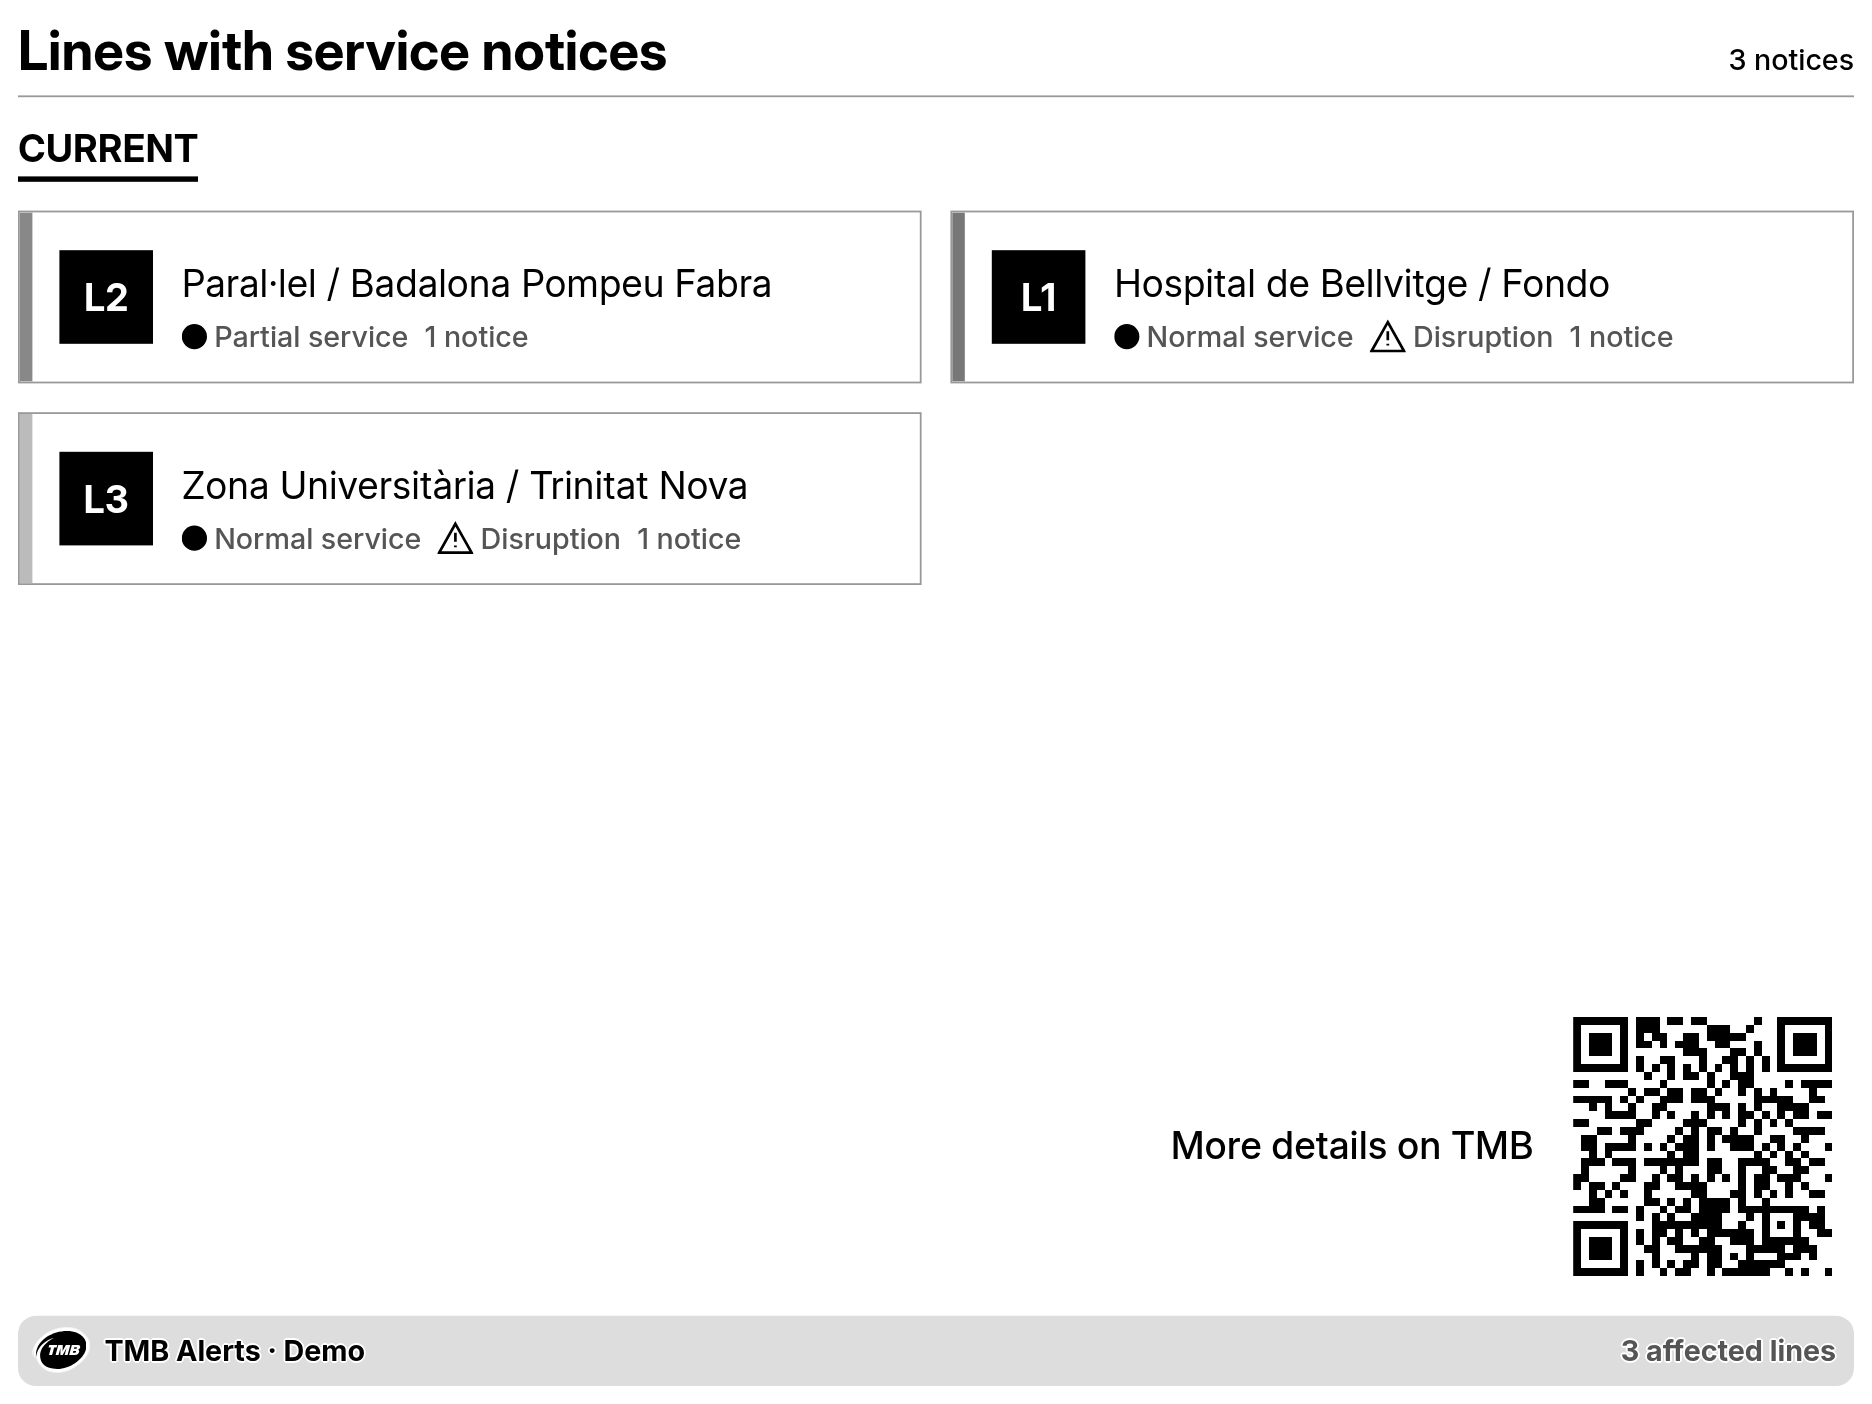
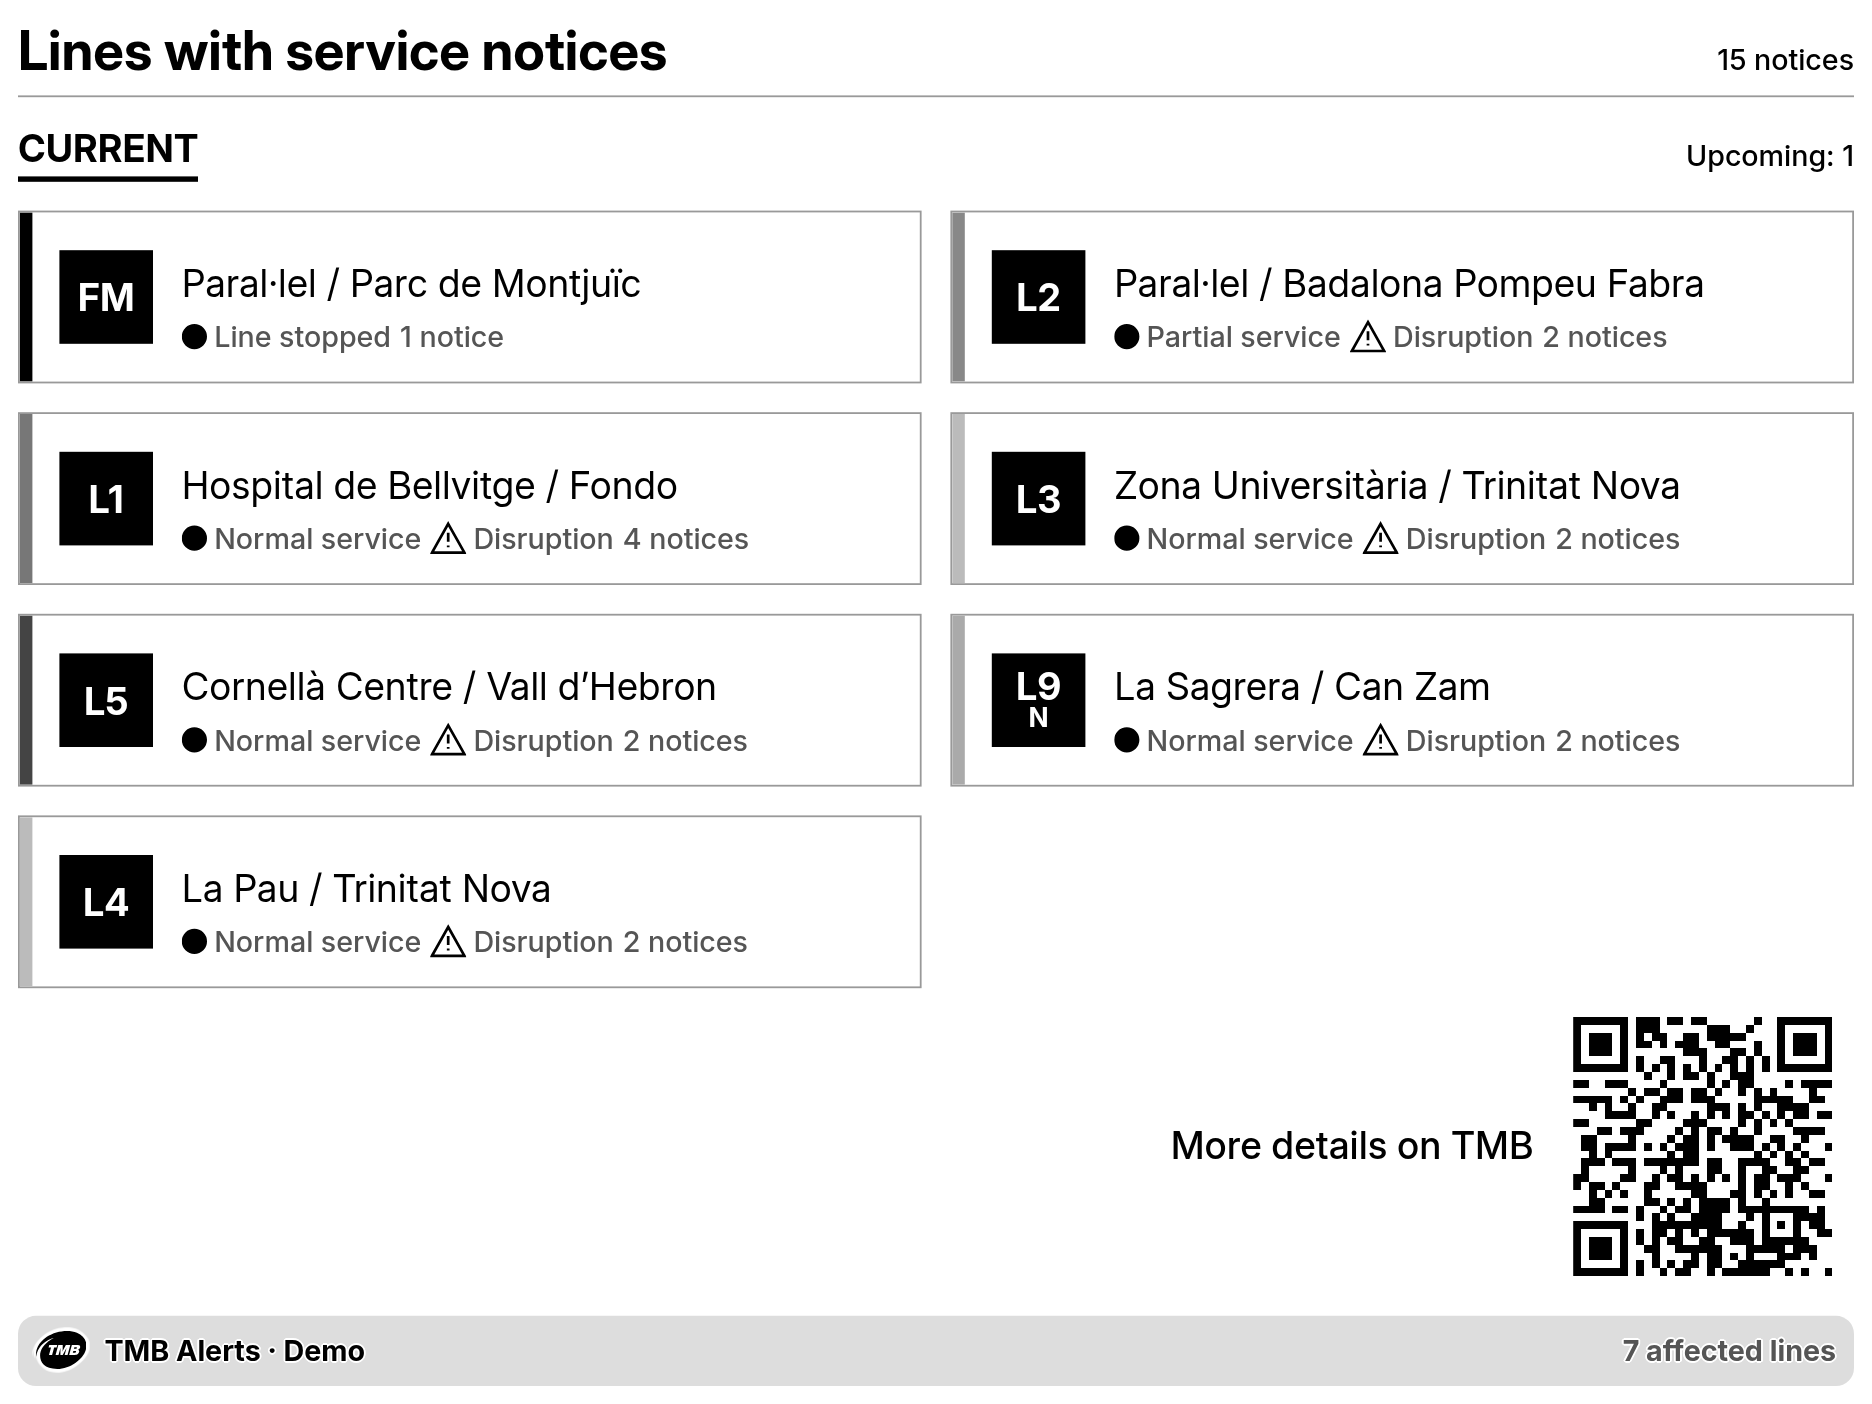
fix: delay dense layouts and reuse framework styles

diff --git a/TRMNL/check.rb b/TRMNL/check.rb
@@ -78,6 +78,10 @@ assert(render([alert(windows: [{ 'begin_date' => NOW - 60, 'end_date' => nil }])
 end
 html = render([partial, alert('L2', windows: [])])
 assert(text(card(html, 'L2')).include?('Partial service'), 'Undated station notice must not mask known circulation restrictions')
+{ 'English' => 'Undated', 'Spanish' => 'Sin fecha', 'Catalan' => 'Sense data' }.each do |language, warning|
+  html = render([partial, alert('L2', windows: [])], language: language)
+  assert(text(card(html, 'L2')).include?(warning), "#{language}: retain the date warning alongside circulation status")
+end
 
 stopped = alert('L3', code: 'NP1', type: 'TRAFFIC', status: 'CRITICAL')
 html = render([partial, stopped])
@@ -112,7 +116,15 @@ LAYOUTS.each do |layout, limit|
   assert(html.scan(/data-line-id="([^"]+)"/).flatten.length == limit, "#{layout}: preserve capacity")
   assert(text(html).include?("+#{11 - limit} more"), "#{layout}: show remaining count") if limit < 11
   assert(html.scan('class="title_bar"').length == 1, "#{layout}: exactly one native title bar")
+  assert(!html.include?('<script'), "#{layout}: keep layouts free of scripts")
 end
+(1..11).each do |count|
+  html = render(LINES.first(count).map { |line| alert(line) })
+  assert(html.scan(/data-line-id="([^"]+)"/).flatten == LINES.first(count), "#{count} lines: keep every affected line")
+end
+html = render(Array.new(20) { alert })
+assert(html.scan(/data-line-id="([^"]+)"/).flatten == ['L1'], 'Many notices on one line must stay in one card')
+assert(text(html).include?('20 notices'), 'Keep the full notice count on a single affected line')
 assert(text(card(render([alert('L10S')]), 'L10S')).include?('ZAL | Riu Vell / Collblanc'), 'Preserve the pipe inside the L10S route')
 html = render([alert('<script>')], name: '<img onerror=alert(1)>')
 assert(html.include?('&lt;script&gt;') && html.include?('&lt;img onerror=alert(1)&gt;'), 'Escape feed values and the instance name')

diff --git a/TRMNL/README.md b/TRMNL/README.md
@@ -12,7 +12,7 @@ The plugin icon is stored in the TRMNL bundle and referenced from settings.yml.
 
 ## Previews
 
-Previews render the current Liquid templates with three synthetic service notices for L1, L2 and L3, including partial service and station disruptions. They are demo images and do not represent live TMB status.
+Previews render the current Liquid templates with seven affected lines, multiple notices per line, circulation and station disruptions, and an upcoming notice. They use synthetic data and do not represent live TMB status.
 
 | Full View | Half Horizontal View |
 |------------|----------------------|
@@ -39,6 +39,8 @@ Previews render the current Liquid templates with three synthetic service notice
 - **quadrant.liquid**: The two highest-priority affected lines plus the remaining-line count.
 
 Each layout owns its markup and uses Framework 3.3.1 responsive clamps, overflow handling and palette-aware color utilities. The same markup renders in grayscale, on the black/white/red/yellow BWRY palette, and at TRMNL X landscape or portrait sizes.
+
+The full layout keeps normal card spacing through seven affected lines on OG and nine on X. Above those counts, cards share the remaining height above the QR code. Density depends on affected lines, not the number of notices.
 
 Run the native Liquid regression checks from the repository root:
 
